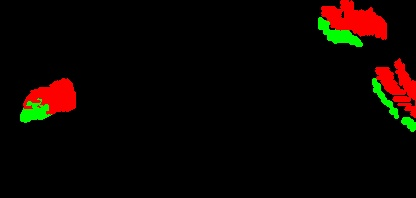
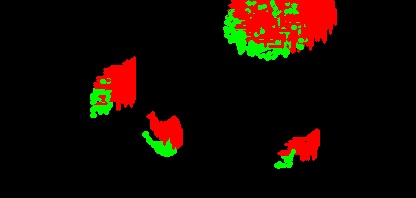
improve labeling use adam optim and try resnet50 again

diff --git a/rcnn/utils.py b/rcnn/utils.py
@@ -4,43 +4,48 @@ import numpy as np
 import torch
 import matplotlib.pyplot as plt
 from albumentations.pytorch import ToTensorV2
-from config import DEVICE, CLASSES, OUT_DIR
+from config import DEVICE, CLASSES, OUT_DIR, DISPLAY_CLASSES
 import os
 plt.style.use('ggplot')
 # this class keeps track of the training and validation loss values...
 # ... and helps to get the average for each epoch as well
+
+
 class Averager:
     def __init__(self):
         self.current_total = 0.0
         self.iterations = 0.0
-        
+
     def send(self, value):
         self.current_total += value
         self.iterations += 1
-    
+
     @property
     def value(self):
         if self.iterations == 0:
             return 0
         else:
             return 1.0 * self.current_total / self.iterations
-    
+
     def reset(self):
         self.current_total = 0.0
         self.iterations = 0.0
+
+
 class SaveBestModel:
     """
     Class to save the best model while training. If the current epoch's 
     validation loss is less than the previous least less, then save the
     model state.
     """
+
     def __init__(
         self, best_valid_loss=float('inf')
     ):
         self.best_valid_loss = best_valid_loss
-        
+
     def __call__(
-        self, current_valid_loss, 
+        self, current_valid_loss,
         epoch, model, optimizer
     ):
         if current_valid_loss < self.best_valid_loss:
@@ -51,7 +56,7 @@ class SaveBestModel:
                 'epoch': epoch+1,
                 'model_state_dict': model.state_dict(),
                 'optimizer_state_dict': optimizer.state_dict(),
-                }, 'outputs/best_model.pth')
+            }, 'outputs/best_model.pth')
 
 
 def collate_fn(batch):
@@ -61,29 +66,35 @@ def collate_fn(batch):
     """
     return tuple(zip(*batch))
 # define the training tranforms
+
+
 def get_train_transform():
     return A.Compose([
-        A.Flip(0.5),
-        A.RandomRotate90(0.5),
-        A.MotionBlur(p=0.2),
-        A.MedianBlur(blur_limit=3, p=0.1),
-        A.Blur(blur_limit=3, p=0.1),
-        A.Normalize(mean=[0.485, 0.456, 0.406], std=[0.229, 0.224, 0.225]),
+        # A.Flip(0.5),
+        # A.RandomRotate90(0.5),
+        # A.MotionBlur(p=0.2),
+        # A.MedianBlur(blur_limit=3, p=0.1),
+        # A.Blur(blur_limit=3, p=0.1),
+        # A.Normalize(mean=[0.485, 0.456, 0.406], std=[0.229, 0.224, 0.225]),
         ToTensorV2(p=1.0),
     ], bbox_params={
         'format': 'pascal_voc',
         'label_fields': ['labels']
     })
-    
+
 # define the validation transforms
+
+
 def get_valid_transform():
     return A.Compose([
-        A.Normalize(mean=[0.485, 0.456, 0.406], std=[0.229, 0.224, 0.225]),
+        # A.Normalize(mean=[0.485, 0.456, 0.406], std=[0.229, 0.224, 0.225]),
         ToTensorV2(p=1.0),
     ], bbox_params={
-        'format': 'pascal_voc', 
+        'format': 'pascal_voc',
         'label_fields': ['labels']
     })
+
+
 def show_tranformed_image(train_loader):
     """
     This function shows the transformed images from the `train_loader`.
@@ -101,24 +112,28 @@ def show_tranformed_image(train_loader):
             sample = images[i].permute(1, 2, 0).cpu().numpy()
             for box_num, box in enumerate(boxes):
                 cv2.rectangle(sample,
-                            (box[0], box[1]),
-                            (box[2], box[3]),
-                            (0, 0, 255), 2)
-                cv2.putText(sample, CLASSES[labels[box_num]], 
-                            (box[0], box[1]-10), cv2.FONT_HERSHEY_SIMPLEX, 
+                              (box[0], box[1]),
+                              (box[2], box[3]),
+                              (0, 0, 255), 2)
+                cv2.putText(sample, CLASSES[labels[box_num]],
+                            (box[0], box[1]-10), cv2.FONT_HERSHEY_SIMPLEX,
                             1.0, (0, 0, 255), 2)
             cv2.imshow('Transformed image', sample)
             cv2.waitKey(0)
             cv2.destroyAllWindows()
+
+
 def save_model(epoch, model, optimizer):
     """
     Function to save the trained model till current epoch, or whenver called
     """
     torch.save({
-                'epoch': epoch+1,
-                'model_state_dict': model.state_dict(),
-                'optimizer_state_dict': optimizer.state_dict(),
-                }, 'outputs/last_model.pth')
+        'epoch': epoch+1,
+        'model_state_dict': model.state_dict(),
+        'optimizer_state_dict': optimizer.state_dict(),
+    }, 'outputs/last_model.pth')
+
+
 def save_loss_plot(OUT_DIR, train_loss, val_loss):
     figure_1, train_ax = plt.subplots()
     figure_2, valid_ax = plt.subplots()
@@ -132,45 +147,74 @@ def save_loss_plot(OUT_DIR, train_loss, val_loss):
     figure_2.savefig(f"{OUT_DIR}/valid_loss.png")
     print('SAVING PLOTS COMPLETE...')
     plt.close('all')
-    
+
+
 def save_annotated_examples(model, valid_loader, epoch):
     try:
         model.eval()  # Set the model to evaluation mode
-        
+
         with torch.no_grad():  # No need to track gradients
             for i, (images, targets) in enumerate(valid_loader):
-                images = list(img.to(DEVICE) for img in images)  # Move images to the correct device
+                # Move images to the correct device
+                images = list(img.to(DEVICE) for img in images)
                 output = model(images)  # Get predictions
-                
+
                 for j, image in enumerate(images):
                     fig, axs = plt.subplots(2, 1, figsize=(10, 10))
-                    
+
                     # Convert image from torch tensor to numpy array and normalize
                     np_image = image.cpu().numpy().transpose((1, 2, 0))
-                    np_image = np_image * np.array([0.229, 0.224, 0.225]) + np.array([0.485, 0.456, 0.406])
+                    # scale the image back to [0, 1]
+                    np_image = (np_image - np_image.min()
+                                ) / (np_image.max() - np_image.min())
+                    # clip the values to [0, 1] just in case
                     np_image = np.clip(np_image, 0, 1)
-                    
+
                     # Plot predictions
                     axs[0].imshow(np_image)
                     axs[0].set_title("Predictions")
-                    for box, label in zip(output[j]['boxes'], output[j]['labels']):
+                    for box, label in zip(
+                            output[j]['boxes'],
+                            output[j]['labels']):
                         x1, y1, x2, y2 = box.cpu().numpy()
-                        axs[0].add_patch(plt.Rectangle((x1, y1), x2 - x1, y2 - y1, fill=False, color='red'))
-                        axs[0].text(x1, y1, str(label.cpu().numpy()), fontsize=8, color='white', backgroundcolor="red")
-                    
+                        label_idx = label.cpu().numpy()
+                        display_label = DISPLAY_CLASSES[label_idx]
+                        axs[0].add_patch(
+                            plt.Rectangle(
+                                (x1, y1),
+                                x2 - x1, y2 - y1, fill=False, color='red'
+                                if label_idx == 1 else 'blue'))
+                        axs[0].text(
+                            x1, y1, display_label, fontsize=8, color='white',
+                            backgroundcolor="red"
+                            if label_idx == 1 else "blue")
+
                     # Plot ground truths
                     axs[1].imshow(np_image)
                     axs[1].set_title("Ground Truth")
-                    for box, label in zip(targets[j]['boxes'], targets[j]['labels']):
+                    for box, label in zip(
+                            targets[j]['boxes'],
+                            targets[j]['labels']):
+                        label_idx = label.cpu().numpy()
+                        display_label = DISPLAY_CLASSES[label_idx]
                         x1, y1, x2, y2 = box.cpu().numpy()
-                        axs[1].add_patch(plt.Rectangle((x1, y1), x2 - x1, y2 - y1, fill=False, color='green'))
-                        axs[1].text(x1, y1, str(label.cpu().numpy()), fontsize=8, color='white', backgroundcolor="green")
-                    
+                        axs[1].add_patch(
+                            plt.Rectangle(
+                                (x1, y1),
+                                x2 - x1, y2 - y1, fill=False, color='red'
+                                if label == 1 else 'blue'))
+                        axs[1].text(
+                            x1, y1, display_label, fontsize=8, color='white',
+                            backgroundcolor="red" if label == 1 else "blue")
+
                     # Save the figure
-                    fig.savefig(os.path.join(OUT_DIR, f'output_{i}_{j}_epoch_{epoch}.png'))
+                    fig.savefig(
+                        os.path.join(
+                            OUT_DIR, f'output_{i}_{j}_epoch_{epoch}.png'))
                     plt.close(fig)  # Close the figure to free memory
-                    
-                if i == 10:  # Save images from the first 10 batches only (optional)
+
+                # Save images from the first 10 batches only (optional)
+                if i == 10:
                     break
     except Exception as e:
         logging.error(f"Error saving annotated images: {str(e)}")

diff --git a/rcnn/config.py b/rcnn/config.py
@@ -7,6 +7,7 @@ BATCH_SIZE = 16 # increase / decrease according to GPU memeory
 # If this is an int, the longer side of the image will be resized to this value, preserving the aspect ratio.
 # If this is a float between 0 and 1, the image will be resized by this factor.
 # If this is None, the image will not be resized.
+LEARNING_RATE=1e-4 # learning rate for training
 RESIZE_TO = 416 
 NUM_EPOCHS = 10 # number of epochs to train for
 NUM_WORKERS = 8 # number of worker processes for background data loading
@@ -20,6 +21,9 @@ VALID_ANNO_DIR = r'D:\CZI_scope\code\data\videos\training_data\dfa_cmos\voc_anno
 # classes: 0 index is reserved for background
 CLASSES = [
     '__background__', '-1', '1'
+]
+DISPLAY_CLASSES = [
+    '__background__', '625', '605' # The xml file class names are '-1' and '1' but we want to display them as '625' and '605
 ]
 NUM_CLASSES = len(CLASSES)
 # whether to visualize images after crearing the data loaders

diff --git a/rcnn/train.py b/rcnn/train.py
@@ -1,6 +1,7 @@
 from config import (
     DEVICE, NUM_CLASSES, NUM_EPOCHS, OUT_DIR,
-    VISUALIZE_TRANSFORMED_IMAGES, NUM_WORKERS, SAVE_ANNOTATED_IMAGES
+    VISUALIZE_TRANSFORMED_IMAGES, NUM_WORKERS, SAVE_ANNOTATED_IMAGES,
+    LEARNING_RATE
 )
 from model import create_model
 from utils import Averager, SaveBestModel, save_model, save_loss_plot, save_annotated_examples
@@ -116,7 +117,7 @@ if __name__ == '__main__':
     # get the model parameters
     params = [p for p in model.parameters() if p.requires_grad]
     # define the optimizer
-    optimizer = torch.optim.SGD(params, lr=0.001, momentum=0.9, weight_decay=0.0005)
+    optimizer = torch.optim.Adam(params, lr=LEARNING_RATE)
     # initialize the Averager class
     train_loss_hist = Averager()
     val_loss_hist = Averager()

diff --git a/rcnn/model.py b/rcnn/model.py
@@ -3,7 +3,7 @@ from torchvision.models.detection.faster_rcnn import FastRCNNPredictor
 def create_model(num_classes):
     
     # load Faster RCNN pre-trained model
-    model = torchvision.models.detection.fasterrcnn_mobilenet_v3_large_fpn(pretrained=True)
+    model = torchvision.models.detection.fasterrcnn_resnet50_fpn(pretrained=False) # Possibility that pretraining will harm the model
     
     # get the number of input features 
     in_features = model.roi_heads.box_predictor.cls_score.in_features
